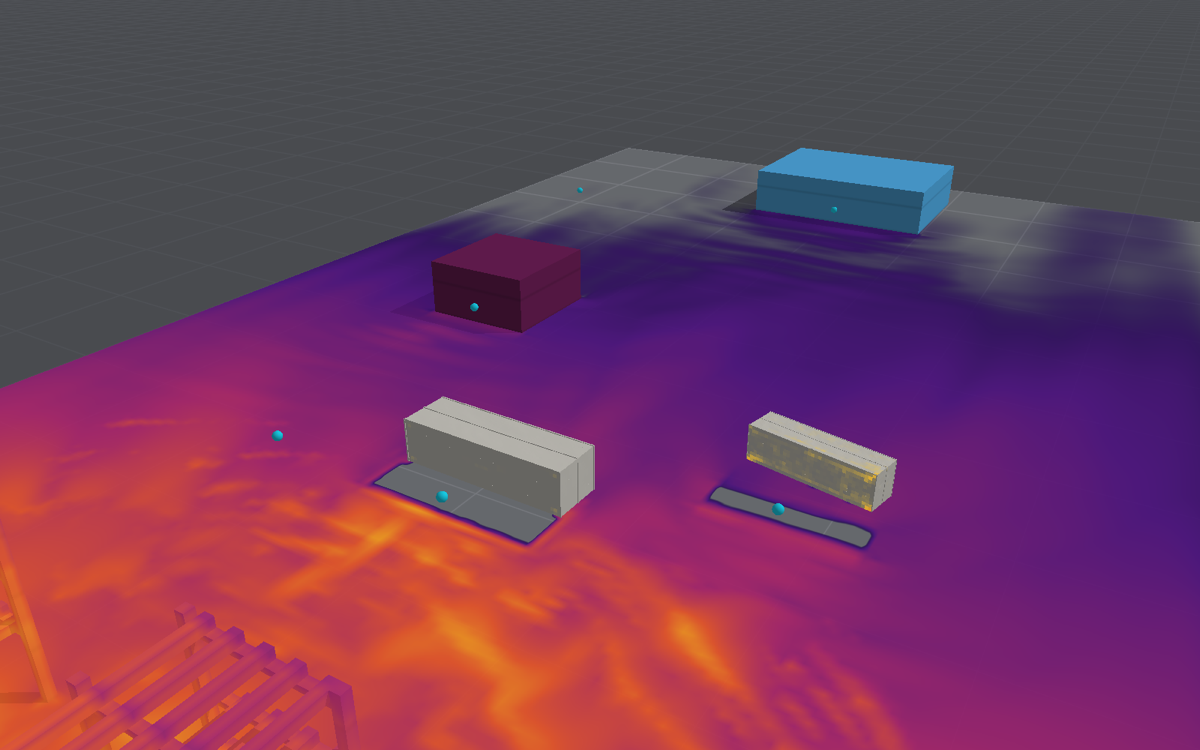
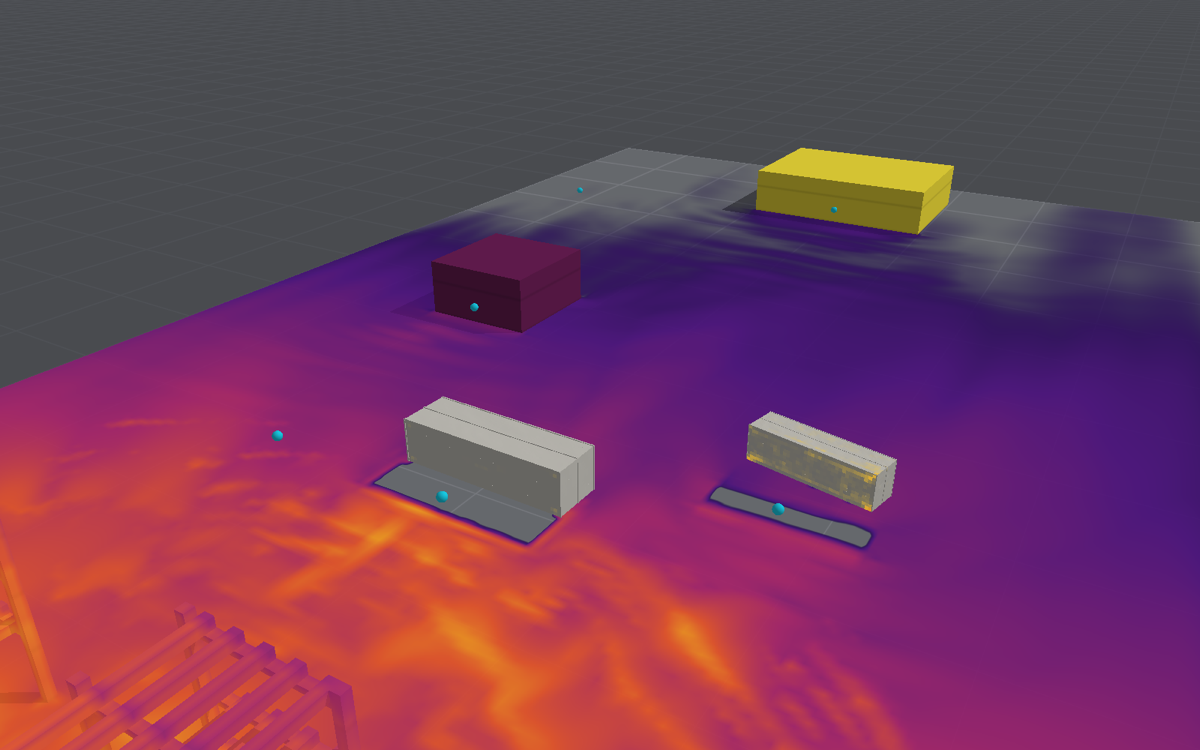
Process plant explosion: figures and pictures on today's envelope damage

Changed region(s): [[0.6167, 0.184, 0.8017, 0.3067]]

diff --git a/Sources/blastbench/main.swift b/Sources/blastbench/main.swift
@@ -127,7 +127,9 @@ func preset(named name: String?) -> ScenarioPreset {
 func chosenScenario() -> Scenario {
     var scenario = preset(named: option("preset")).scenario
     // `--flame-factor 12`: a gas cloud's burning velocity times this (`FlameAcceleration.factor`).
-    if let factor = option("flame-factor").flatMap({ Float($0) }) { scenario.deflagration?.acceleration.factor = factor }
+    if let factor = option("flame-factor").flatMap({ Float($0) }) {
+        scenario.deflagration?.acceleration.factor = factor
+    }
     if flag("shells") || option("shells") != nil, var structure = scenario.structure {
         structure.elementKind = .shell
         structure.elementSize = option("shells").flatMap { Float($0) } ?? 0.25

diff --git a/docs/process-plant-explosion.md b/docs/process-plant-explosion.md
@@ -108,15 +108,15 @@ point says little about the next. 6.5 is used. A single run's peak is uncertain 
 the envelope buildings not yet in the air, gave 3.6 psi).
 
 **With the fitted flame** (`blastbench snapshot --preset plant --dx 0.5 --time 2
---envelope-damage`; 219 s on the Studio, under load from other work):
+--envelope-damage`; 87–219 s on the Studio, depending on its load from other work):
 
 | Where | Model | Texas City (CSB) |
 |---|---|---|
 | In the process area | 6.4 psi (44 kPa) | 2–5 psi over most of the unit, 10+ psi at the compressor deck |
 | Free field, 37 m from the drum | 2.4 psi | 2.5–2.8 psi at the double-wide and QA/QC trailers (fitted) |
 | On the module's face | 8.3 psi, reflected | |
-| At the brick control room, 62 m | 1.6 psi; its walls fail and all six panes break | 1.5–2.5 psi at the ISOM satellite control room, masonry, heavily damaged |
-| At the concrete office, 108 m | 0.8 psi; 9 of its 10 panes break, the walls and roof undamaged | about 1 psi at the first row of tanks; windows broken out to 0.75 mile |
+| At the brick control room, 62 m | 1.6 psi; its walls fail and five of its six panes break | 1.5–2.5 psi at the ISOM satellite control room, masonry, heavily damaged |
+| At the concrete office, 108 m | 0.8 psi; moderate damage, and 5 of its 10 panes break | about 1 psi at the first row of tanks; windows broken out to 0.75 mile |
 | Free field, 100 m | 0.4 psi | about 0.5 psi beyond the 1 psi line |
 
 - **The blast-resistant module** slides 3.9 m from where it stood, its walls whole: no element
@@ -129,12 +129,12 @@ the envelope buildings not yet in the air, gave 3.6 psi).
   trailers' walls and roofs failing out to 67–76 m: the model's steel cabin comes off more lightly
   than the record's trailers, the unsafe side.
 - **The envelope buildings** show the components' damage: the brick control room failed, as the
-  ISOM satellite control room was heavily damaged; the concrete office keeps its walls and loses
-  its glass.
+  ISOM satellite control room was heavily damaged; the concrete office is moderately damaged and
+  loses half its glass.
 
 ![The plant and its buildings, the peak overpressure over 2 s, with the factor fitted](process-plant-overview.png)
 
-![The module and cabin, pushed off where they stood (grey), and the control room (red, failed) and the office (blue, windows broken)](process-plant-buildings.png)
+![The module and cabin, pushed off where they stood (grey), the control room (red, failed) and the office (moderately damaged)](process-plant-buildings.png)
 
 **What to take from it.** The scene shows how the buildings around a plant fare against one
 another, the module against the cabin and the masonry against the concrete, once the cloud's
